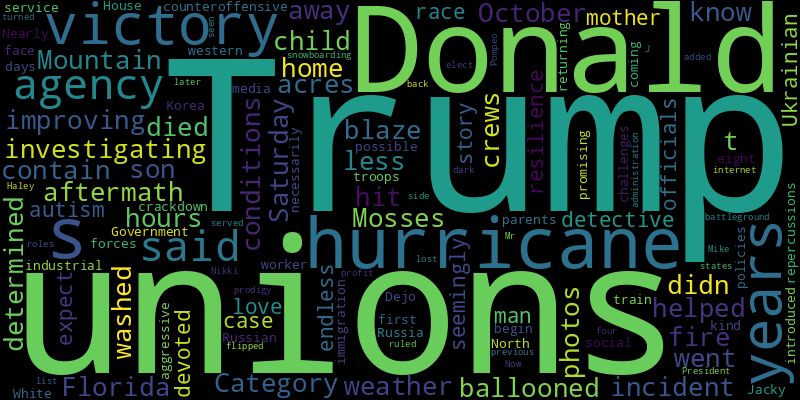
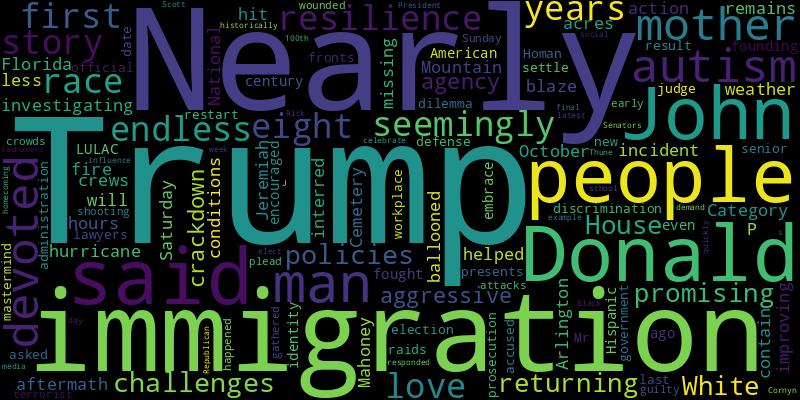
chore(bot): 🙈 auto commit

diff --git a/README.md b/README.md
@@ -2,41 +2,41 @@
 Auto RSS New York Times and Generate Word Cloud
 
 ## New York Times Global News
+* Antisemitic assaults on visiting Israeli soccer fans, and incendiary chants and attacks by some Israelis: Here’s what we know so far about the violence in Amsterdam last week.
 * The president-elect’s call for Taiwan to spend more on its own defense and his complaints about its semiconductor dominance may herald a tenser relationship.
+* The kingdom, which has been accused of trying to “sportswash” its human rights record, hosted the WTA Finals, part of its unstoppable advance into the world of sports.
 * Internal political squabbles — and the fallout from a global backlash to inflation, immigration and ruling elites — are hobbling Germany and France.
+* The strike hit a house in the city of Jabaliya, which has repeatedly come under attack as the Israeli military has pressed an offensive in northern Gaza.
 * The Palestinian leader Mahmoud Abbas has met with Tiffany Trump’s father-in-law and written conciliatory letters to the president-elect, a strong supporter of Israel.
-* Neither jail nor exile to Hong Kong have stopped Han Dongfang, a former Tiananmen Square protest leader, from championing workers’ rights. “If you’re born stubborn, you go everywhere stubborn.”
-* Foreign leaders have rushed to ingratiate themselves with Donald J. Trump in recent days, nervously recalling the clashes, insults and feuds of his first presidency.
-* Adm. Rob Bauer warned against any peace deal that was too favorable to Russia, arguing that it could undermine American interests.
-* The reversal of a 35-year ban on cats in public housing won’t be a quick fix for cat-related problems. It’s not even clear how many cats live in the city-state.
-* It’s impossible to say how many widows the war in Ukraine has created because Kyiv closely guards its casualty figures. But estimates suggest they number in the tens of thousands.
-* The violence erupted around a soccer match between Israeli and Dutch teams in Amsterdam on Thursday.
-* The incoming president has promised the largest deportation effort in U.S. history. Now migrants are weighing a new Trump administration in deciding whether to trek to the United States.
+* The strike in the Jbeil district of Lebanon came amid an apparent diplomatic push for a cease-fire between Israel and Hezbollah.
+* Officials said more than 30 drones had been intercepted over suburban areas of the Russian capital in what was the biggest such attack since the invasion of Ukraine in 2022.
+* Neither jail nor exile to Hong Kong has stopped Han Dongfang, a former Tiananmen Square protest leader, from championing workers’ rights. “If you’re born stubborn, you go everywhere stubborn.”
+* Ukrainian officials expect a counteroffensive in western Russia to begin in the coming days as North Korea’s troops train with Russian forces.
 
 ![Global](./global.png)
 ## New York Times United States News
+* A man with autism, his devoted mother and a seemingly endless race. A story of resilience and love.
+* Nearly eight years after the first challenges to his immigration policies, Donald Trump is returning to the White House promising a more aggressive crackdown.
 * The agency said it was investigating the incident in the aftermath of the Category 3 hurricane that hit Florida in October.
 * After the Mountain fire ballooned to more than 20,000 acres in less than 24 hours, improving weather conditions helped crews contain more of the blaze on Saturday.
-* The Mosses’ home washed away during the hurricane, and with it went their photos of a son who had died as a child. They didn’t know a determined detective was on the case.
-* A man with autism, his devoted mother and a seemingly endless race. A story of resilience and love.
-* Ukrainian officials expect a counteroffensive in western Russia to begin in the coming days as North Korea’s troops train with Russian forces.
-* Government unions, service worker unions and industrial unions all face possible repercussions from Donald Trump’s victory, but not necessarily all the same kind.
-* Nearly eight years after the first challenges to his immigration policies, Donald Trump is returning to the White House promising a more aggressive crackdown.
-* “Jacky Dejo” was introduced to social media by her parents as a snowboarding prodigy. Now 18, she has seen the dark side of the internet — and turned a profit from it.
-* The victory added to the list of battleground states that Mr. Trump lost in 2020 and flipped back four years later.
-* President-elect Donald J. Trump ruled out roles for Nikki Haley and Mike Pompeo, who served in his previous administration.
+* Jeremiah P. Mahoney had been missing in action since 1945. His remains will be interred in Arlington National Cemetery in 2025.
+* From its founding nearly a century ago, LULAC encouraged Hispanic people to embrace American identity even as it fought discrimination. The 2024 election result presents a dilemma on both fronts.
+* Mr. Homan, a senior immigration official in the last Trump administration, has said that workplace raids would restart under the new government.
+* The judge asked defense and prosecution lawyers to settle on a date for the accused mastermind of the terrorist attacks to plead guilty.
+* The shooting, which wounded 12 people, happened early on Sunday as crowds gathered at the historically Black school to celebrate the final day of its 100th homecoming week.
+* Senators Rick Scott, John Thune and John Cornyn quickly responded to President-elect Donald J. Trump’s demand on social media, the latest example of his influence over Republican lawmakers.
 
 ![US](./usnews.png)
 ## New York Times Asia News
-* Neither jail nor exile to Hong Kong have stopped Han Dongfang, a former Tiananmen Square protest leader, from championing workers’ rights. “If you’re born stubborn, you go everywhere stubborn.”
+* Parliament voted Monday to stick with Ishiba, who will lead a minority government after his party suffered heavy losses in an election last month.
+* A new HBO documentary about opposition to autocrats says a lot about the complex politics the president-elect inspires for people fleeing countries.
+* Making the impromptu five-hour ride between two Chinese cities became a craze among young people. But as their numbers swelled, the authorities shut it down.
+* Donald J. Trump’s second term brings uncertainty to the Korean Peninsula as nuclear tensions run high. North Korea’s leader may see a chance to re-engage.
+* Plus, does tech make us feel lonely?
+* Ukrainian officials expect a counteroffensive in western Russia to begin in the coming days as North Korea’s troops train with Russian forces.
+* Neither jail nor exile to Hong Kong has stopped Han Dongfang, a former Tiananmen Square protest leader, from championing workers’ rights. “If you’re born stubborn, you go everywhere stubborn.”
 * The president-elect’s call for Taiwan to spend more on its own defense and his complaints about its semiconductor dominance may herald a tenser relationship.
 * The Taiwanese chip giant will halt shipments to Chinese companies after some of its most advanced chips ended up with Huawei.
 * A banned ethnic separatist group in a restive province claimed responsibility for the deadly attack in Quetta, the provincial capital.
-* In the heart of India’s capital, residents blame chronic, debilitating illnesses on an industrial plant burning the city’s garbage and turning it into electricity.
-* Tong Yang-Tze is reviving an ancient but disappearing practice and making it contemporary — writ large.
-* The reversal of a 35-year ban on cats in public housing won’t be a quick fix for cat-related problems. It’s not even clear how many cats live in the city-state.
-* India promised to burn its trash mountains and safely turn them into electricity. But a New York Times investigation found hazardous levels of toxic substances around homes, playgrounds and schools.
-* Foreign leaders have rushed to ingratiate themselves with Donald J. Trump in recent days, nervously recalling the clashes, insults and feuds of his first presidency.
-* “Maybe Happy Ending” had an initial Korean-language production in Seoul in 2016. Here are five things to know about the show.
 
 ![Asian](./asian.png)

diff --git a/archive/2024-11-10.md b/archive/2024-11-10.md
@@ -1,0 +1,42 @@
+# NewsArchive
+Auto RSS New York Times and Generate Word Cloud
+
+## New York Times Global News
+* The president-elect’s call for Taiwan to spend more on its own defense and his complaints about its semiconductor dominance may herald a tenser relationship.
+* Internal political squabbles — and the fallout from a global backlash to inflation, immigration and ruling elites — are hobbling Germany and France.
+* The Palestinian leader Mahmoud Abbas has met with Tiffany Trump’s father-in-law and written conciliatory letters to the president-elect, a strong supporter of Israel.
+* Neither jail nor exile to Hong Kong have stopped Han Dongfang, a former Tiananmen Square protest leader, from championing workers’ rights. “If you’re born stubborn, you go everywhere stubborn.”
+* Foreign leaders have rushed to ingratiate themselves with Donald J. Trump in recent days, nervously recalling the clashes, insults and feuds of his first presidency.
+* Adm. Rob Bauer warned against any peace deal that was too favorable to Russia, arguing that it could undermine American interests.
+* The reversal of a 35-year ban on cats in public housing won’t be a quick fix for cat-related problems. It’s not even clear how many cats live in the city-state.
+* It’s impossible to say how many widows the war in Ukraine has created because Kyiv closely guards its casualty figures. But estimates suggest they number in the tens of thousands.
+* The violence erupted around a soccer match between Israeli and Dutch teams in Amsterdam on Thursday.
+* The incoming president has promised the largest deportation effort in U.S. history. Now migrants are weighing a new Trump administration in deciding whether to trek to the United States.
+
+![Global](./global.png)
+## New York Times United States News
+* The agency said it was investigating the incident in the aftermath of the Category 3 hurricane that hit Florida in October.
+* After the Mountain fire ballooned to more than 20,000 acres in less than 24 hours, improving weather conditions helped crews contain more of the blaze on Saturday.
+* The Mosses’ home washed away during the hurricane, and with it went their photos of a son who had died as a child. They didn’t know a determined detective was on the case.
+* A man with autism, his devoted mother and a seemingly endless race. A story of resilience and love.
+* Ukrainian officials expect a counteroffensive in western Russia to begin in the coming days as North Korea’s troops train with Russian forces.
+* Government unions, service worker unions and industrial unions all face possible repercussions from Donald Trump’s victory, but not necessarily all the same kind.
+* Nearly eight years after the first challenges to his immigration policies, Donald Trump is returning to the White House promising a more aggressive crackdown.
+* “Jacky Dejo” was introduced to social media by her parents as a snowboarding prodigy. Now 18, she has seen the dark side of the internet — and turned a profit from it.
+* The victory added to the list of battleground states that Mr. Trump lost in 2020 and flipped back four years later.
+* President-elect Donald J. Trump ruled out roles for Nikki Haley and Mike Pompeo, who served in his previous administration.
+
+![US](./usnews.png)
+## New York Times Asia News
+* Neither jail nor exile to Hong Kong have stopped Han Dongfang, a former Tiananmen Square protest leader, from championing workers’ rights. “If you’re born stubborn, you go everywhere stubborn.”
+* The president-elect’s call for Taiwan to spend more on its own defense and his complaints about its semiconductor dominance may herald a tenser relationship.
+* The Taiwanese chip giant will halt shipments to Chinese companies after some of its most advanced chips ended up with Huawei.
+* A banned ethnic separatist group in a restive province claimed responsibility for the deadly attack in Quetta, the provincial capital.
+* In the heart of India’s capital, residents blame chronic, debilitating illnesses on an industrial plant burning the city’s garbage and turning it into electricity.
+* Tong Yang-Tze is reviving an ancient but disappearing practice and making it contemporary — writ large.
+* The reversal of a 35-year ban on cats in public housing won’t be a quick fix for cat-related problems. It’s not even clear how many cats live in the city-state.
+* India promised to burn its trash mountains and safely turn them into electricity. But a New York Times investigation found hazardous levels of toxic substances around homes, playgrounds and schools.
+* Foreign leaders have rushed to ingratiate themselves with Donald J. Trump in recent days, nervously recalling the clashes, insults and feuds of his first presidency.
+* “Maybe Happy Ending” had an initial Korean-language production in Seoul in 2016. Here are five things to know about the show.
+
+![Asian](./asian.png)
